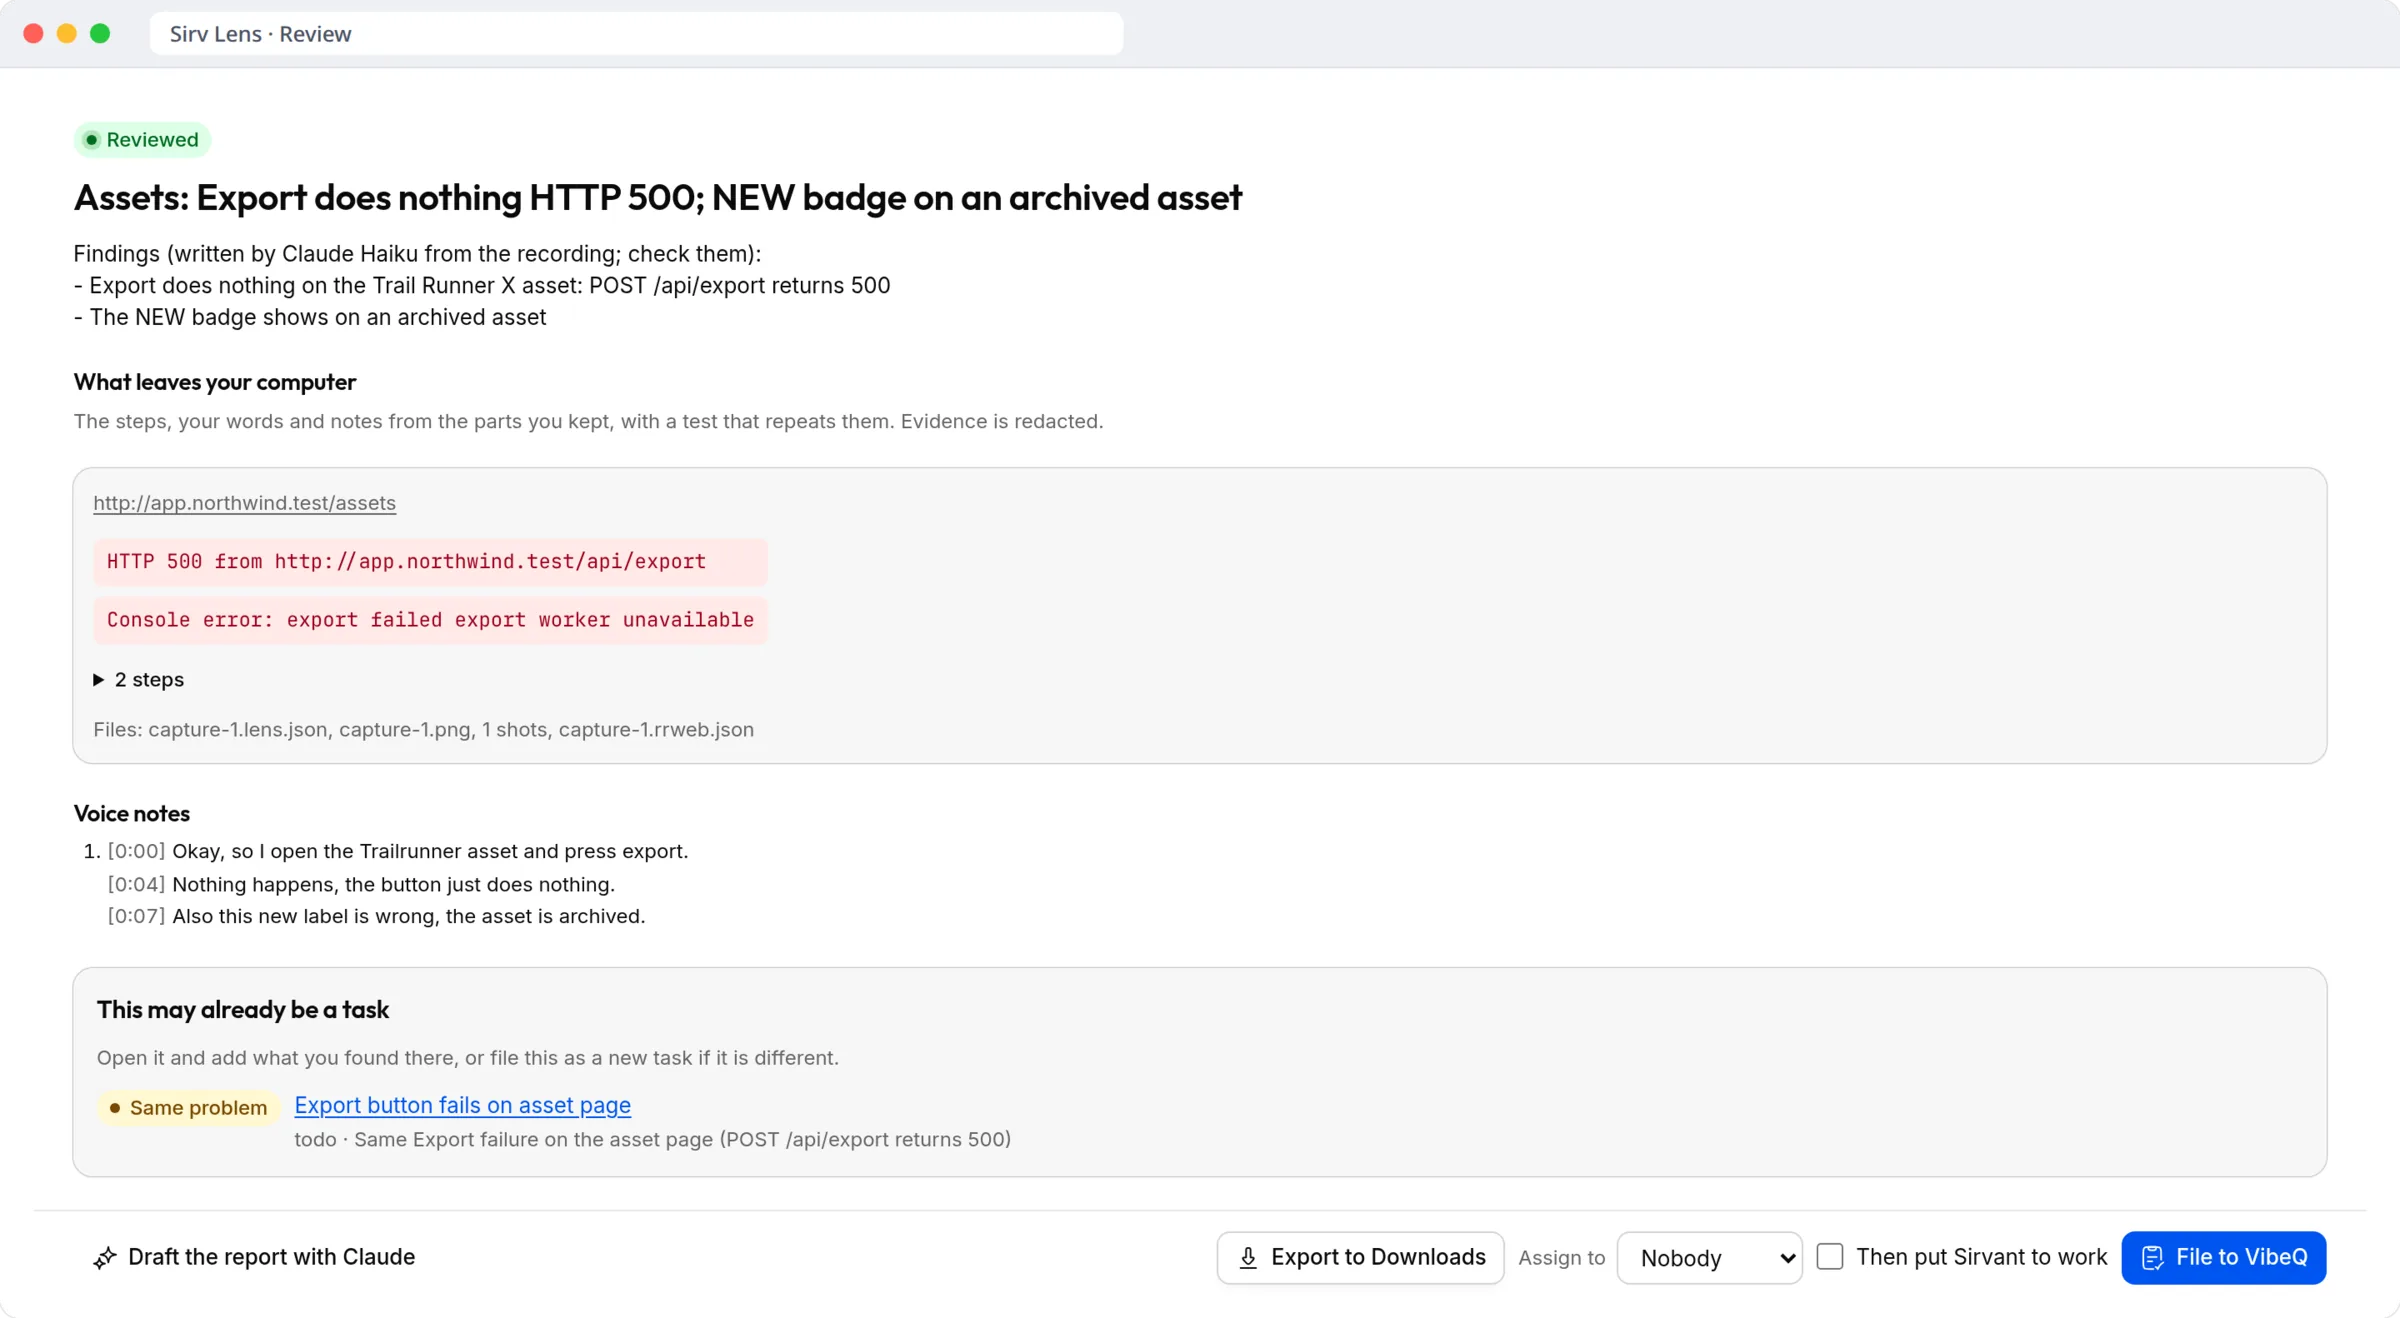
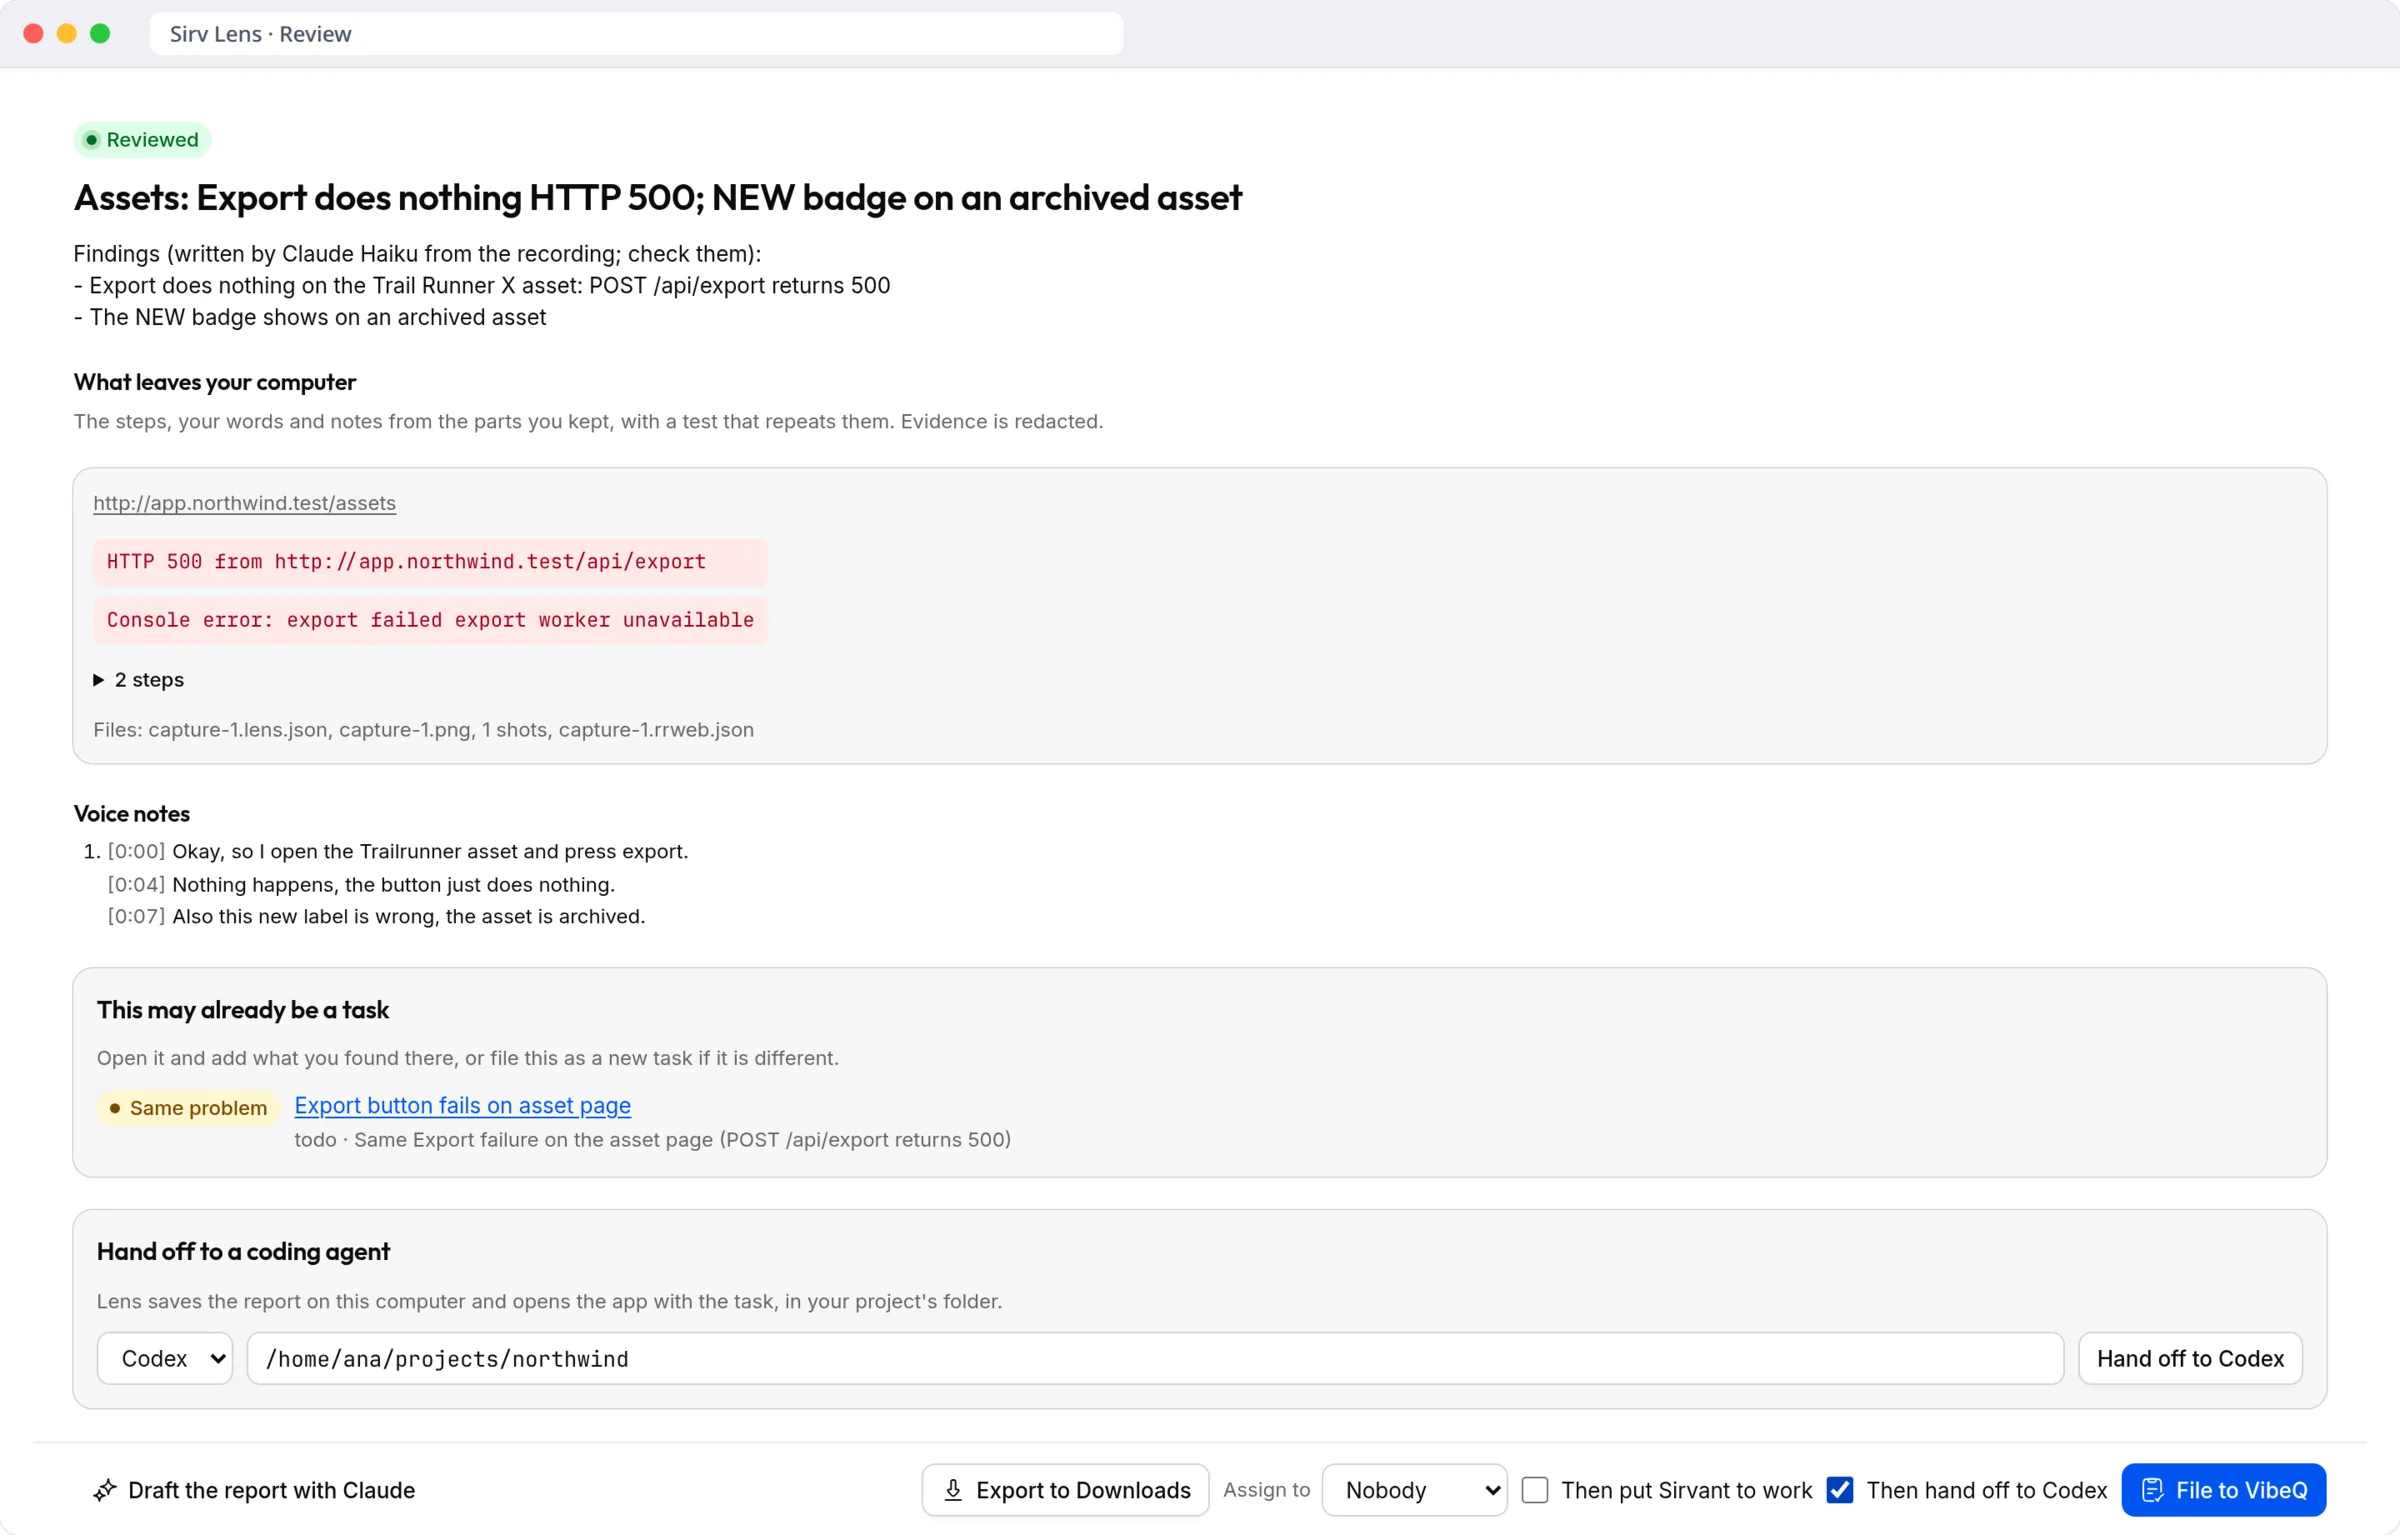
Site: the hand-off and agent setup, a new review shot
Step 03 names the hand-off to Claude Code, Codex, T3 Code or Zeron on the VibeQ task; the agents
section shows Connect coding agents / lens agents connect and the CLI; the privacy policy covers
connecting agents and handing a review off. The review shot and the store images show the
hand-off section.

diff --git a/site/public/privacy.html b/site/public/privacy.html
@@ -58,7 +58,8 @@
       <li><strong>Filing to VibeQ.</strong> When you press "File to VibeQ", Lens sends the task (title, notes, findings, tags), the structured record, the screenshots and the page recording to the VibeQ address you configured, signed in as you. Before filing, Lens may search that VibeQ for similar tasks. If you choose "Put Sirvant to work", Lens asks your VibeQ to start its agent on the task. VibeQ is run by its own operator under its own terms.</li>
       <li><strong>Exporting.</strong> "Export" writes the same files to a folder on your computer. Where they go from there is up to you.</li>
       <li><strong>Your AI assistant, if you have one.</strong> If Claude Code or Codex is installed and signed in on your computer, Lens uses it to write titles and findings, to split long recordings into tasks and to check for duplicates. Lens passes it text only: your transcript, the steps, the page text, your notes and, for the duplicate check, the titles and descriptions of similar VibeQ tasks. The tool sends that text to Anthropic or OpenAI under your own account and their terms. No audio and no screenshots are sent for these. The separate "Draft the report" action, which you start yourself, also passes the screenshots. You choose the assistant in Settings; without one installed, nothing is sent.</li>
-      <li><strong>Coding agents on your computer.</strong> If you connect an agent to Lens over MCP (<code>lens mcp</code>), it can read the recordings you reviewed. It runs on your computer under your control.</li>
+      <li><strong>Coding agents on your computer.</strong> If you connect your agents to Lens ("Connect coding agents" in Settings, or <code>lens agents connect</code>), Lens adds its skill and its MCP server (<code>lens mcp</code>) to the agents installed here: Claude Code, Codex, Cursor and Gemini CLI. They can then read the recordings you reviewed, and only those; they change nothing in Lens. "Disconnect" takes both back.</li>
+      <li><strong>Handing a review off.</strong> When you press "Hand off" (or choose "Then hand off" before filing), Lens saves the review to a folder on your computer and opens the app you chose, Claude Code, Codex, T3 Code or Zeron, with a task that names the folder and the VibeQ task, or holds the report itself when the review was not filed. That app then works under your account and its own terms, and may send what it reads to its AI provider.</li>
       <li><strong>Downloads Lens makes.</strong> The app checks for updates and downloads signed updates from GitHub, and downloads the speech model from Hugging Face when you ask it to. These requests carry no recorded data; like any download, they reveal your IP address to those services.</li>
     </ul>
 

diff --git a/site/public/index.html b/site/public/index.html
@@ -90,9 +90,13 @@
           <div class="step-text">
             <span class="step-no">03 File</span>
             <h3>File it, or put an agent on it</h3>
-            <p>With your Claude Code or Codex, Lens writes the title and findings and checks VibeQ for the same problem. Then it files the task with the steps, the screenshots and the replay. Prefer files? Export it to a folder with a Playwright test.</p>
+            <p>With your Claude Code or Codex, Lens writes the title and findings and checks VibeQ for the same problem. Then it files the task with the steps, the screenshots and the replay.</p>
+            <ul>
+              <li>Hand it off in the same click: Claude Code, Codex, T3 Code or Zeron opens on the VibeQ task, in your project's folder.</li>
+              <li>Prefer files? Export it to a folder with a Playwright test.</li>
+            </ul>
           </div>
-          <div class="shot"><img src="/assets/shot-file.webp" alt="The review page before filing: the findings, a likely duplicate in VibeQ, and the Sirvant option" width="2400" height="1318" loading="lazy"></div>
+          <div class="shot"><img src="/assets/shot-file.webp" alt="The review page before filing: the findings, a likely duplicate in VibeQ, and the hand-off to a coding agent in your project folder" width="2400" height="1535" loading="lazy"></div>
         </div>
       </div>
     </div>
@@ -112,7 +116,7 @@
           <li><strong>Your words, on the same clock</strong><span>What you said, where you said it, corrected if Whisper misheard.</span></li>
           <li><strong>A replay and screenshots</strong><span>The DOM recording and a shot after each step, with your masks burned in.</span></li>
         </ul>
-        <p class="mcp">Working locally? Agents read reviewed recordings straight from Lens: <code>claude mcp add lens -- lens mcp</code></p>
+        <p class="mcp">Working locally? One click in Settings, or <code>lens agents connect</code>, gives Claude Code, Codex, Cursor and Gemini CLI the Lens skill and MCP server: they find a review by its VibeQ task and read it straight from Lens. No MCP? <code>lens review &lt;id&gt;</code> and <code>lens export &lt;id&gt;</code> work from any shell.</p>
       </div>
 <pre class="record" aria-label="An excerpt of a Lens record"><code><span class="cmt">// capture-1.lens.json (excerpt)</span>
 {
